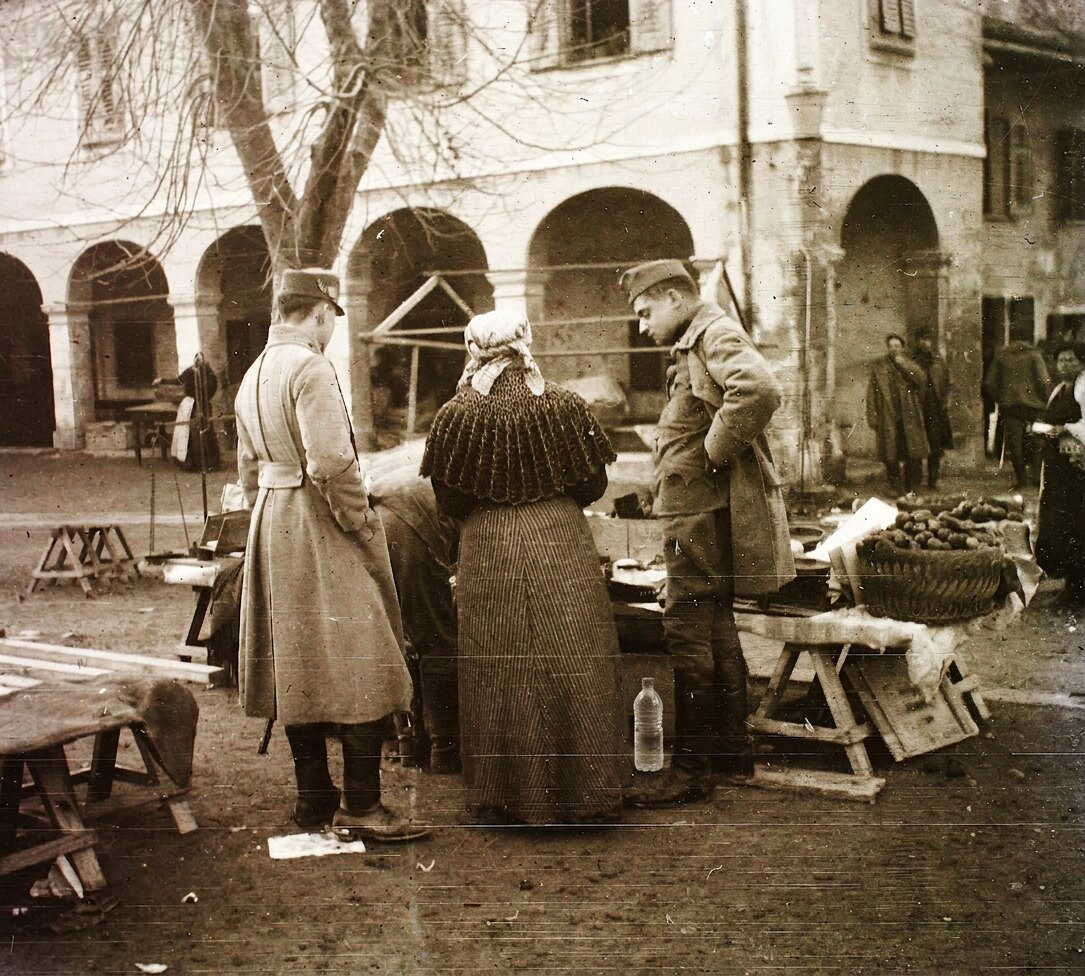
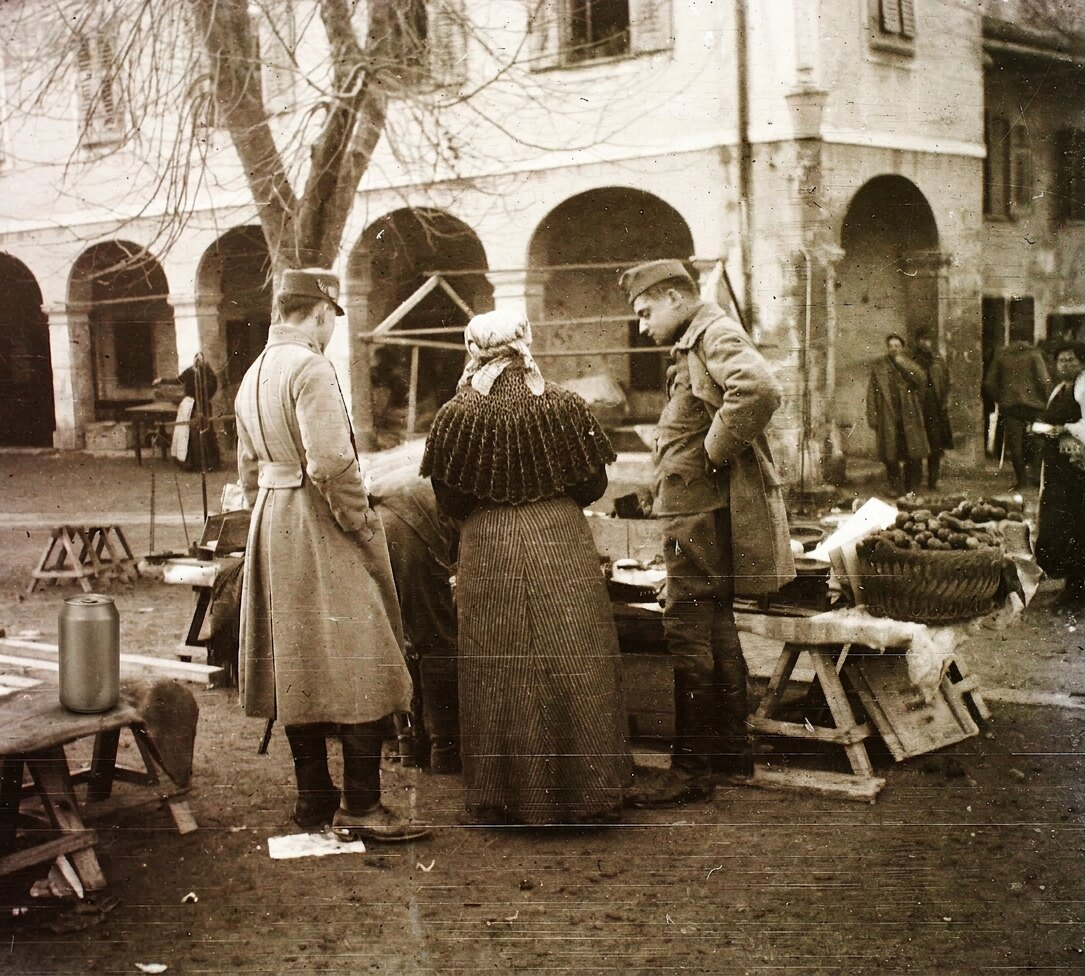
Content pass: scale/tone prompts, anomaly variety, context paragraphs; fix zoom anchor
Scenes (pike + hungary regenerated with a varied, context-fitting object;
the generation prompt never prescribes a sepia cast - it says match the
ORIGINAL photo's actual tone/coloration - and adds real-world scale matching
far/small near/large against surrounding objects):
- pike-place-seattle: plastic bottle -> paper coffee cup with lid on the
  foreground stall (Seattle market).
- hungary-market-square: plastic bottle -> muted drink can on the wooden
  trestle (vision: blended, realistic size).
- brisbane-fruit-market: two replacement attempts (plastic bag, sneaker)
  failed to render recognizably/refused; the existing blended bottle stays
  (2 bottles remain in the pool, down from 4).
Answer positions re-verified via the aligned pixel-diff hotspot + tight crop.

Manifest: every scene now carries a "description" field (what the photo shows
+ historical context); rendered under the title in the right rail (new
.scene-desc element). Validator requires it; tests cover the reject case.

Zoom-anchor fix: photoBase() previously derived the untransformed box from
the *transformed* photo rect at call time, which double-counted the view
offset once zoomed (click-under-zoom and wheel anchoring were off by view.x/
view.y). Now the image layout box is measured at scale 1 (fitPhotoToStage
resets zoom then re-measures on img load/resize) and cached; click + zoom
math both use it, so the point under the cursor stays fixed while zooming.

Changed region(s): [[0.0, 0.584, 0.1217, 0.7684], [0.5779, 0.6762, 0.6387, 0.7992]]

diff --git a/game.ts b/game.ts
@@ -27,6 +27,7 @@ const els = {
   photo: $("#photo"),
   sceneTitle: $("#scene-title"),
   scenePlace: $("#scene-place"),
+  sceneDesc: $("#scene-desc"),
   sceneProgress: $("#scene-progress"),
   img: $("#photo-img") as HTMLImageElement,
   overlay: $("#overlay"),
@@ -118,6 +119,7 @@ function renderScene(): void {
   els.end.hidden = true;
   els.sceneTitle.textContent = s.title;
   els.scenePlace.textContent = `${s.place}, ${s.year}`;
+  els.sceneDesc.textContent = s.description;
   els.sceneProgress.textContent = `${state.index + 1} / ${state.queue.length}`;
   els.img.removeAttribute("style");
   els.img.src = s.image;
@@ -156,25 +158,27 @@ function addMarker(
 }
 
 /**
- * Untransformed photo base box in view coordinates. The zoom transform is
- * applied to the photo wrapper (origin 0 0), so the image's layout offset
- * inside it stays constant; measuring the wrapper rect + the image's own
- * offset gives the base without the transform and without double-counting
- * (the image's offsetParent is the positioned .photo wrapper).
+ * Untransformed image box in viewport coordinates. The zoom transform
+ * (translate + scale, origin 0 0) is applied to the #photo wrapper; the image
+ * layout box itself never moves, but getBoundingClientRect() would include
+ * the transform. The layout box only changes when the image loads or the
+ * viewport resizes, and both paths funnel through fitPhotoToStage, so we
+ * re-measure there (at scale 1) and keep the cached box for click/zoom math.
  */
+let baseBox = { left: 0, top: 0, width: 0, height: 0 };
+
 function photoBase(): {
   left: number;
   top: number;
   width: number;
   height: number;
 } {
-  const photoRect = els.photo.getBoundingClientRect();
-  return {
-    left: photoRect.left + els.img.offsetLeft,
-    top: photoRect.top + els.img.offsetTop,
-    width: els.img.offsetWidth,
-    height: els.img.offsetHeight,
-  };
+  return baseBox;
+}
+
+function measureBase(): void {
+  const r = els.img.getBoundingClientRect();
+  baseBox = { left: r.left, top: r.top, width: r.width, height: r.height };
 }
 
 function applyTransform(): void {
@@ -427,10 +431,14 @@ function showEnd(): void {
  * the plain CSS max-width constraint applies instead.
  */
 function fitPhotoToStage(): void {
+  // re-fit changes the layout box, which invalidates a cached base and any
+  // active pan/zoom; reset to identity so the measurement is untransformed
+  if (view.scale !== 1 || view.x !== 0 || view.y !== 0) resetZoom();
   const desktop = window.matchMedia(DESKTOP_LAYOUT);
   if (!desktop.matches) {
     els.img.style.width = "";
     els.img.style.height = "";
+    if (els.img.naturalWidth) measureBase();
     return;
   }
   if (!els.img.naturalWidth) return;
@@ -447,6 +455,7 @@ function fitPhotoToStage(): void {
   if (!fit) return;
   els.img.style.width = `${fit.width}px`;
   els.img.style.height = `${fit.height}px`;
+  measureBase();
 }
 
 async function init(): Promise<void> {

diff --git a/manifest.ts b/manifest.ts
@@ -16,6 +16,8 @@ export interface Scene {
   original: string;
   /** Short label of the planted object, e.g. "Plastikflasche". */
   anomaly: string;
+  /** 1-2 sentence context: what the photo shows + historical background. */
+  description: string;
   /** Normalized answer position (0..1, top-left origin) and hit radius. */
   answer: { x: number; y: number; r: number };
   /** Progressive hints, coarse to precise. The last one names the object. */
@@ -80,6 +82,7 @@ function parseScene(raw: unknown, index: number): Scene {
     image: reqString(raw.image, where, "image"),
     original: reqString(raw.original, where, "original"),
     anomaly: reqString(raw.anomaly, where, "anomaly"),
+    description: reqString(raw.description, where, "description"),
     answer: { x: nx, y: ny, r: nr },
     hints: [hints[0] as string, hints[1] as string, hints[2] as string],
   };

diff --git a/tests/manifest.test.ts b/tests/manifest.test.ts
@@ -13,6 +13,7 @@ function validScene(): Record<string, unknown> {
     image: "scenes/s1.jpg",
     original: "scenes/s1-original.jpg",
     anomaly: "Plastikflasche",
+    description: "Ein Markt um 1900 mit Ständen und Obst.",
     answer: { x: 0.3, y: 0.6, r: 0.04 },
     hints: [
       "auf einem Wagen",
@@ -83,5 +84,8 @@ describe("parseManifest", () => {
   test("rejects missing required string fields", () => {
     expect(() => parseManifest(validManifest({ image: "" }))).toThrow(/image/);
     expect(() => parseManifest(validManifest({ id: undefined }))).toThrow(/id/);
+    expect(() => parseManifest(validManifest({ description: "" }))).toThrow(
+      /description/,
+    );
   });
 });

diff --git a/index.html b/index.html
@@ -26,6 +26,7 @@
           <span id="scene-place" class="scene-place"></span>
           <span id="scene-progress" class="progress"></span>
         </div>
+        <p id="scene-desc" class="scene-desc"></p>
         <div class="stage">
           <div id="photo" class="photo">
             <img id="photo-img" alt="" />

diff --git a/style.css b/style.css
@@ -65,6 +65,13 @@ main {
   font-size: 0.95rem;
 }
 
+.scene-desc {
+  color: var(--ink-dim);
+  font-size: 0.9rem;
+  margin: 0 0 0.6rem;
+  max-width: 58ch;
+}
+
 .progress {
   margin-left: auto;
   color: var(--ink-dim);

diff --git a/README.md b/README.md
@@ -35,8 +35,13 @@ bun run checks     # format + tsc + biome + knip + tests
 - `💡 Tipp zeigen` reveals the next of three progressive hints
   (what it's attached to → which half → exact spot + object name). Each hint
   used scales the score by 0.85 / 0.7 / 0.55.
+- A short context paragraph under the title describes what the photo shows
+  and its historical background (place, year, period).
 - Scenes carry an internal difficulty tier (dezent / klassisch / auffaellig)
   used for generation and tuning; it is not shown in the UI.
+- The planted anomalies are varied and context-fitting (e.g. a coffee cup on
+  a market stall, a drink can among baskets, a wristwatch on a passer-by, a
+  phone in a parade crowd), not a fixed object set.
 - All source photos are landscape (wider than tall).
 
 ## Daily selection
@@ -63,6 +68,7 @@ Each scene entry:
   "image": "scenes/jammu-bazaar.jpg",
   "original": "scenes/jammu-bazaar-original.jpg",
   "anomaly": "Digitaluhr",
+  "description": "Der Butcher's Bazaar in Jammu, Indien, um 1900: eine enge Marktgasse mit Verkaufsständen, Körben und Passanten.",
   "answer": { "x": 0.11, "y": 0.62, "r": 0.03 },
   "hints": [
     "Eine Person trägt es am Körper.",
